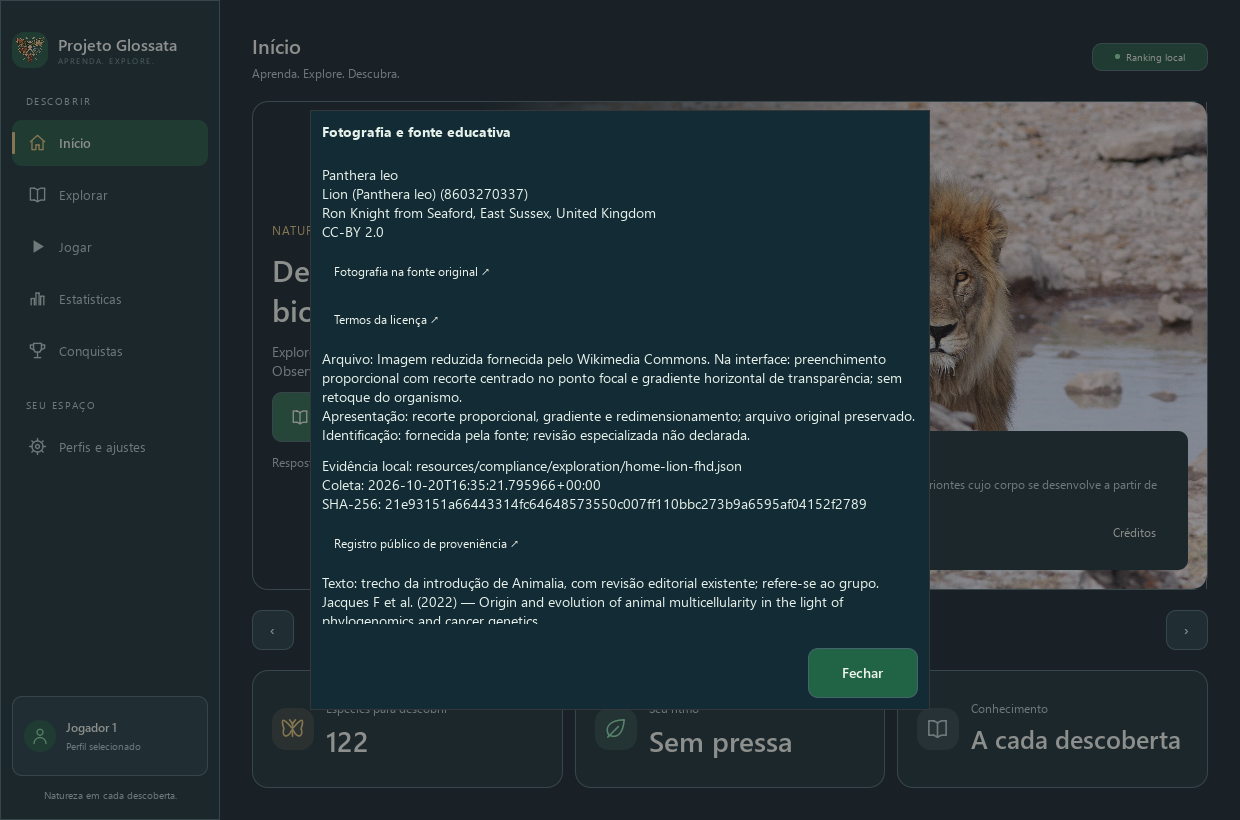
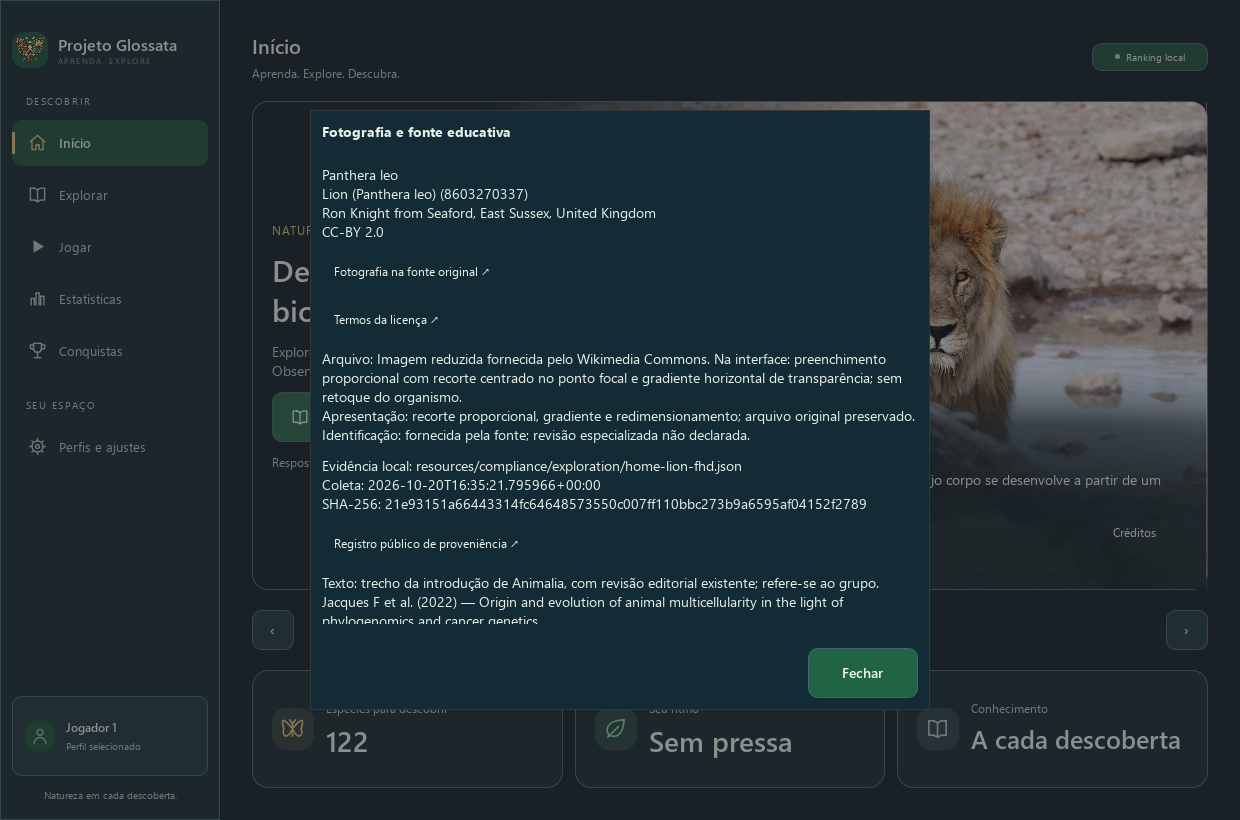
refactor(ui): integrate carousel captions over feathered photo gradient

Changed region(s): [[0.7355, 0.4573, 0.9806, 0.7317]]

diff --git a/resources/qml/views/HomeView.qml b/resources/qml/views/HomeView.qml
@@ -174,6 +174,46 @@ FocusScope {
                 }
             }
             Canvas {
+                objectName: "homeCaptionShade"
+                anchors.right: layerA.right
+                anchors.bottom: layerA.bottom
+                width: layerA.width
+                height: Math.min(layerA.height, caption.height + Style.Theme.spaceLg * 6)
+                onWidthChanged: requestPaint()
+                onHeightChanged: requestPaint()
+                // A static lower veil, feathered on both sides. Repaint only
+                // when its size changes; the photographs crossfade underneath.
+                onPaint: {
+                    const ctx = getContext("2d")
+                    ctx.reset()
+                    if (width <= 0 || height <= 0) return
+                    const ink = Style.Theme.canvas
+                    ctx.save()
+                    ctx.scale(width, height)
+                    const shade = ctx.createRadialGradient(0.72, 1.05, 0, 0.72, 1.05, 1.05)
+                    shade.addColorStop(0, Qt.rgba(ink.r, ink.g, ink.b, 0.96))
+                    shade.addColorStop(0.45, Qt.rgba(ink.r, ink.g, ink.b, 0.94))
+                    shade.addColorStop(0.72, Qt.rgba(ink.r, ink.g, ink.b, 0.70))
+                    shade.addColorStop(1, Qt.rgba(ink.r, ink.g, ink.b, 0))
+                    ctx.fillStyle = shade
+                    ctx.fillRect(0, 0, 1, 1)
+                    ctx.restore()
+                    ctx.globalCompositeOperation = "destination-in"
+                    const vertical = ctx.createLinearGradient(0, 0, 0, height)
+                    vertical.addColorStop(0, "transparent")
+                    vertical.addColorStop(0.28, "black")
+                    vertical.addColorStop(1, "black")
+                    ctx.fillStyle = vertical
+                    ctx.fillRect(0, 0, width, height)
+                    const horizontal = ctx.createLinearGradient(0, 0, width, 0)
+                    horizontal.addColorStop(0, "transparent")
+                    horizontal.addColorStop(0.20, "black")
+                    horizontal.addColorStop(1, "black")
+                    ctx.fillStyle = horizontal
+                    ctx.fillRect(0, 0, width, height)
+                }
+            }
+            Canvas {
                 anchors.fill: layerA
                 onWidthChanged: requestPaint()
                 onHeightChanged: requestPaint()
@@ -231,32 +271,41 @@ FocusScope {
                     wrapMode: Text.WordWrap
                 }
             }
-            Rectangle {
+            ColumnLayout {
+                id: caption
+                objectName: "homePhotoCaption"
                 anchors.right: parent.right
                 anchors.bottom: parent.bottom
-                anchors.margins: Style.Theme.spaceLg
-                width: parent.width * 0.46
-                height: caption.implicitHeight + Style.Theme.spaceLg * 2
-                radius: Style.Theme.controlRadius
-                color: Style.Theme.surface
-                ColumnLayout {
-                    id: caption
-                    objectName: "homePhotoCaption"
-                    anchors.fill: parent
-                    anchors.margins: Style.Theme.spaceLg
-                    spacing: Style.Theme.spaceXs
+                anchors.margins: Style.Theme.spaceLg * 2
+                width: parent.width * 0.44
+                spacing: Style.Theme.spaceXs
+                Label {
+                    objectName: "homeCaptionTitle"
+                    Layout.fillWidth: true
+                    text: view.slides.length ? view.slide.title : "Fotografias indisponíveis"
+                    color: Style.Theme.text
+                    font.family: Style.Theme.fontFamily
+                    font.pixelSize: Style.Theme.subtitleSize
+                    font.weight: Font.DemiBold
+                    wrapMode: Text.WordWrap
+                }
+                Label {
+                    objectName: "homeCaptionDescription"
+                    Layout.fillWidth: true
+                    text: view.slides.length ? view.slide.excerpt : "A exploração e os modos de jogo continuam disponíveis."
+                    color: Style.Theme.text
+                    font.pixelSize: Style.Theme.bodySize
+                    wrapMode: Text.WordWrap
+                }
+                RowLayout {
+                    Layout.fillWidth: true
+                    spacing: Style.Theme.spaceSm
                     Label {
+                        objectName: "homeCaptionScientificName"
                         Layout.fillWidth: true
-                        text: view.photo.subject || "Fotografias indisponíveis"
-                        color: Style.Theme.text
-                        font: Style.Theme.scientificFont
-                        wrapMode: Text.WordWrap
-                    }
-                    Label {
-                        Layout.fillWidth: true
-                        text: view.slides.length ? view.slide.title + " · " + view.slide.excerpt : "A exploração e os modos de jogo continuam disponíveis."
+                        text: view.photo.subject || ""
                         color: Style.Theme.textMuted
-                        font.pixelSize: Style.Theme.captionSize
+                        font: Style.Theme.scientificFont
                         wrapMode: Text.WordWrap
                     }
                     TextAction {
@@ -268,14 +317,14 @@ FocusScope {
                         Accessible.name: "Ver autor, licença, proveniência e fonte educativa de " + (view.photo.subject || "")
                         onClicked: credits.open()
                     }
-                    Label {
-                        Layout.fillWidth: true
-                        visible: view.slides.length > 0 && !view.photoReady
-                        text: "Fotografia ainda não disponível."
-                        color: Style.Theme.textMuted
-                        font.pixelSize: Style.Theme.captionSize
-                        wrapMode: Text.WordWrap
-                    }
+                }
+                Label {
+                    Layout.fillWidth: true
+                    visible: view.slides.length > 0 && !view.photoReady
+                    text: "Fotografia ainda não disponível."
+                    color: Style.Theme.textMuted
+                    font.pixelSize: Style.Theme.captionSize
+                    wrapMode: Text.WordWrap
                 }
             }
         }

diff --git a/tests/QmlInterfaceTests.cpp b/tests/QmlInterfaceTests.cpp
@@ -20,6 +20,15 @@
 
 namespace {
 QStringList interfaceWarnings;
+double colorContrast(QColor a, QColor b)
+{
+    const auto luminance = [](QColor c) {
+        const auto linear = [](double v) { return v <= 0.04045 ? v / 12.92 : std::pow((v + 0.055) / 1.055, 2.4); };
+        return 0.2126 * linear(c.redF()) + 0.7152 * linear(c.greenF()) + 0.0722 * linear(c.blueF());
+    };
+    const auto x = luminance(a), y = luminance(b);
+    return (qMax(x, y) + 0.05) / (qMin(x, y) + 0.05);
+}
 QString scientificGroup(const QString &name) {
     JsonSpeciesCatalog catalog;
     for(const auto &node : catalog.loadTaxons()) if(node.name==name)return node.id;
@@ -126,6 +135,58 @@ void QmlInterfaceTests::homeCarouselPhotographsAndNavigation()
             QVERIFY(qAbs(credit->width() - credit->implicitWidth()) < 1);
             QVERIFY(credit->width() < caption->width() / 2);
             QVERIFY(qAbs(credit->x() + credit->width() - caption->width()) < 1);
+            const auto title = item("homeCaptionTitle"), description = item("homeCaptionDescription");
+            const auto scientificName = item("homeCaptionScientificName");
+            QVERIFY(title && description && scientificName);
+            QCOMPARE(title->property("text").toString(), slides[i].toMap()["title"].toString());
+            QCOMPARE(description->property("text").toString(), slides[i].toMap()["excerpt"].toString());
+            QCOMPARE(scientificName->property("text").toString(), slides[i].toMap()["photo"].toMap()["subject"].toString());
+            QVERIFY(QQmlProperty(scientificName, "font.italic").read().toBool());
+            QVERIFY(QQmlProperty(title, "font.pixelSize").read().toInt() > QQmlProperty(description, "font.pixelSize").read().toInt());
+            QCOMPARE(QQmlProperty(title, "font.weight").read().toInt(), int(QFont::DemiBold));
+            const auto titleBounds = title->mapRectToScene(title->boundingRect());
+            const auto descriptionBounds = description->mapRectToScene(description->boundingRect());
+            const auto nameBounds = scientificName->mapRectToScene(scientificName->boundingRect());
+            QVERIFY(titleBounds.bottom() <= descriptionBounds.top());
+            QVERIFY(descriptionBounds.bottom() <= nameBounds.top());
+            for (auto text : {title, description, scientificName}) {
+                QVERIFY(!text->property("truncated").toBool());
+                QVERIFY(text->property("paintedHeight").toReal() <= text->height() + 1);
+                const auto bounds = text->mapRectToScene(text->boundingRect());
+                const auto heroBounds = item("homeHeroPhoto")->mapRectToScene(item("homeHeroPhoto")->boundingRect());
+                QVERIFY(heroBounds.contains(bounds));
+            }
+            if (i == 0) {
+                auto shade = item("homeCaptionShade");
+                QVERIFY(shade);
+                auto grab = shade->grabToImage();
+                QVERIFY(grab);
+                QTRY_VERIFY(!grab->image().isNull());
+                const auto veil = grab->image();
+                const int center = veil.width() / 2, bottom = veil.height() - 2;
+                QVERIFY(veil.pixelColor(center, 0).alpha() < 5);
+                QVERIFY(veil.pixelColor(center, bottom).alpha() > 220);
+                QVERIFY(veil.pixelColor(0, bottom).alpha() < 10);
+                QVERIFY(veil.pixelColor(veil.width() - 2, veil.height() / 4).alpha()
+                    < veil.pixelColor(center, bottom).alpha());
+                QVERIFY(veil.pixelColor(center, veil.height() / 3).alpha()
+                    < veil.pixelColor(center, veil.height() * 2 / 3).alpha());
+                // Contrast against a white photo pixel under the actual veil.
+                for (auto text : {title, description, scientificName, credit}) {
+                    const auto point = shade->mapFromItem(text, QPointF(2,
+                        qMin(text->height() / 2, QQmlProperty(text, "font.pixelSize").read().toReal() / 2)));
+                    const auto ink = veil.pixelColor(qBound(0, qRound(point.x() * veil.width() / shade->width()), veil.width() - 1),
+                        qBound(0, qRound(point.y() * veil.height() / shade->height()), veil.height() - 1));
+                    const auto alpha = ink.alphaF();
+                    const auto background = QColor::fromRgbF(ink.redF() * alpha + 1 - alpha,
+                        ink.greenF() * alpha + 1 - alpha, ink.blueF() * alpha + 1 - alpha);
+                    const auto foreground = text == credit
+                        ? credit->property("contentItem").value<QQuickItem *>()->property("color").value<QColor>()
+                        : text->property("color").value<QColor>();
+                    QVERIFY2(colorContrast(foreground, background) >= (text == title ? 3.0 : 4.5),
+                        qPrintable(text->objectName() + " must remain readable over bright photos"));
+                }
+            }
             const auto hero = item("homeHeroPhoto");
             const auto frame=window->grabWindow();
             const auto bounds=hero->mapRectToScene(hero->boundingRect());
@@ -509,11 +570,6 @@ void QmlInterfaceTests::designSystemStatesAndContrast()
     auto window = qobject_cast<QQuickWindow *>(object.data()); QVERIFY(window);
     auto button = findVisualItem(window->contentItem(), "themeButton"); QVERIFY(button);
     auto background = button->property("background").value<QQuickItem *>(); QVERIFY(background);
-    const auto luminance = [](QColor c) {
-        const auto linear = [](double v) { return v <= 0.04045 ? v/12.92 : std::pow((v+0.055)/1.055, 2.4); };
-        return 0.2126*linear(c.redF()) + 0.7152*linear(c.greenF()) + 0.0722*linear(c.blueF());
-    };
-    const auto contrast = [&](QColor a, QColor b) { const auto x=luminance(a), y=luminance(b); return (qMax(x,y)+0.05)/(qMin(x,y)+0.05); };
     window->setProperty("animations", false);
     QCOMPARE(window->property("animationDuration").toInt(), 0);
     QTest::qWait(180);
@@ -524,14 +580,14 @@ void QmlInterfaceTests::designSystemStatesAndContrast()
             QTest::mouseMove(window, state ? button->mapToScene(QPointF(20,20)).toPoint() : QPoint(510,420));
             button->setProperty("down", state == 2);
             QTest::qWait(1);
-            QVERIFY(contrast(text,background->property("color").value<QColor>()) >= 4.5);
+            QVERIFY(colorContrast(text,background->property("color").value<QColor>()) >= 4.5);
             button->setProperty("down", false);
         }
     }
     button->setProperty("secondary", false); button->setProperty("danger", false);
     button->forceActiveFocus(Qt::TabFocusReason);
     QCOMPARE(QQmlProperty(background, "border.width").read().toInt(), 2);
-    QVERIFY(contrast(window->property("focusColor").value<QColor>(), window->property("canvasColor").value<QColor>()) >= 3.0);
+    QVERIFY(colorContrast(window->property("focusColor").value<QColor>(), window->property("canvasColor").value<QColor>()) >= 3.0);
     QTest::keyClick(window, Qt::Key_Space); QCOMPARE(window->property("activations").toInt(), 1);
     QTest::keyClick(window, Qt::Key_Tab);
     QVERIFY(findVisualItem(window->contentItem(), "themeNav")->hasActiveFocus());

diff --git a/docs/interface/VERSOES/2.2.1-A/README.md b/docs/interface/VERSOES/2.2.1-A/README.md
@@ -4,7 +4,7 @@ Subetapa da [Issue #22](https://github.com/kaduolliver/Projeto-Glossata/issues/2
 
 ## Implementação
 
-O Início apresenta quatro fotografias locais, selecionadas das associações explícitas já verificadas pelo catálogo de mídia. O recorte proporcional respeita o ponto focal existente, com gradiente horizontal e legenda sobre superfície opaca. Setas e pequenos pontos selecionam as fotos; não há faixa de miniaturas. O avanço automático ocorre a cada oito segundos, com crossfade de 600 ms e retorno ao primeiro slide. A navegação manual reinicia o intervalo. Hover, foco de teclado no carrossel, créditos abertos, janela inativa/oculta/minimizada e Home invisível suspendem o avanço; ao retomar começa um intervalo completo. Tab/Espaço, setas e Home/End permitem operar por teclado; foco visível e retorno do diálogo de créditos são preservados. A preferência de redução de movimento zera a duração das transições e desativa o avanço automático. `Theme.homeSlideInterval` e `Theme.homeCrossfadeDuration` centralizam os tempos.
+O Início apresenta quatro fotografias locais, selecionadas das associações explícitas já verificadas pelo catálogo de mídia. O recorte proporcional respeita o ponto focal existente, com gradiente horizontal e legenda diretamente sobre um degradê inferior suave. Setas e pequenos pontos selecionam as fotos; não há faixa de miniaturas. O avanço automático ocorre a cada oito segundos, com crossfade de 600 ms e retorno ao primeiro slide. A navegação manual reinicia o intervalo. Hover, foco de teclado no carrossel, créditos abertos, janela inativa/oculta/minimizada e Home invisível suspendem o avanço; ao retomar começa um intervalo completo. Tab/Espaço, setas e Home/End permitem operar por teclado; foco visível e retorno do diálogo de créditos são preservados. A preferência de redução de movimento zera a duração das transições e desativa o avanço automático. `Theme.homeSlideInterval` e `Theme.homeCrossfadeDuration` centralizam os tempos.
 
 Explorar abre a navegação científica; Jogar chama o fluxo existente de início/retomada, inclusive feedback e resultados pendentes. O carrossel não grava estado de sessão. Os três indicadores anteriores permanecem; não há Descoberta do Dia, novo indicador, nova espécie ou reformulação de outras telas.
 
@@ -115,3 +115,13 @@ As verificações de destaque visual nos três botões compartilhados e nos pont
 Regressões verificam clique e funcionamento dos botões, ausência da borda pelo mouse e retorno da borda por Tab/Shift+Tab. [Mouse](capturas/mouse-focus-1240x820.png) e [teclado](capturas/keyboard-focus-1240x820.png) têm capturas reais adicionais. A imagem oficial registra a interação com Créditos no mesmo `Main.qml`/controlador, executado pelo QtTest com SQLite temporário; o manifesto identifica esse binário e a fonte do quadro. A captura inicial pelo executável de produção também foi refeita com `scripts/capture_home.py`: o estado em repouso conserva a mesma aparência.
 
 Release recompilada; domínio/aplicação aprovado com 53 casos e suíte Qt/QML final aprovada com dez casos (77,51 s), sem avisos. Verificados estados de foco dos quatro controles, ações, navegação, carrossel e sessões. Qmllint, auditoria estrita do catálogo, escopo Apache, manifestos e histórico preservados. O gate de distribuição continua bloqueado por pendências existentes, com zero erros técnicos. Nenhum catálogo, fotografia, regra ou registro de decisão foi alterado.
+
+## Legenda integrada à fotografia
+
+A superfície retangular foi removida. No canto inferior direito, o nome do grupo existente passa a ser o título educativo, em seminegrito de 20 px; a descrição mantém exatamente o trecho científico aprovado, em 14 px. Nome científico em itálico e Créditos compartilham a linha inferior. O diálogo de autoria, licenciamento e fontes permanece intacto.
+
+Uma camada Canvas independente desenha o degradê inferior difuso, com queda vertical e lateral, sem modificar fotografias ou os buffers do crossfade. A pintura ocorre em alterações de tamanho, inclusive reflow da legenda; não há animação ou processamento das fotos nessa camada. Os recortes dos cantos permanecem preservados. A largura proporcional e as margens mantêm a legenda separada dos botões Explorar/Jogar.
+
+Os testes exercitam os quatro slides nas três resoluções, conferindo ordem dos textos, itálico, seminegrito, ausência de cortes e sobreposições, transparência do degradê e contraste sobre um pixel fotográfico branco. Esta verificação de contraste usa o degradê realmente renderizado: pelo menos 3:1 para o título e 4,5:1 para descrição, nome e Créditos. As capturas reais atualizadas incluem os estados de mouse e teclado. A captura oficial desta revisão volta ao estado inicial do executável de produção, por `scripts/capture_home.py`; o manifesto identifica separadamente as capturas produzidas pelo QtTest. Não houve alterações de catálogo, fotografias, licenças ou funcionalidades externas à legenda.
+
+Validação final: compilação Release concluída; dez casos Qt/QML aprovados (78,09 s), sem avisos, incluindo carrossel, créditos, teclado e regressões de navegação/sessões. Qmllint de todos os QML, auditoria estrita do catálogo, escopo Apache, integridade dos manifestos/capturas e preservação dos 1.053 eventos de governança aprovados. As 15 capturas e a imagem oficial foram regeneradas e inspecionadas nas três resoluções. O gate de distribuição permanece bloqueado pelas pendências existentes, com zero erros técnicos. Outras GPUs, escalas e leitores de tela não foram ensaiados nesta intervenção.

diff --git a/docs/interface/ARQUITETURA_UI.md b/docs/interface/ARQUITETURA_UI.md
@@ -4,7 +4,7 @@
 
 `HomeView.qml` mantém o estado transitório do carrossel, sem persistir preferências ou alterar partidas. `GameController.homeSlides` expõe quatro representantes explícitos de `TaxonomyIndex`: Animalia, Arthropoda, Plantae e Fungi, selecionados pelos identificadores estáveis para evitar homônimos históricos preservados no SQLite. A mesma porta `ExplorationMediaCatalog` valida fotos, licenças e evidências já utilizadas na exploração. Introduções passam por `EducationalContent`; só a primeira frase completa do texto utilizável é exibida, com referência preservada. Não há novas afirmações científicas ou aprovação automática.
 
-Fotografias indisponíveis ou introduções sem revisão utilizável não geram slides; a Home continua oferecendo Explorar e Jogar mesmo com zero slides. A Home usa dois buffers nativos `Image`, com recorte proporcional e gradiente independente; Canvas pinta apenas os cantos. O componente `FeatheredPhoto` dos cartões permanece intacto. Um Timer de oito segundos avança somente com a Home visível e a janela ativa, sem interação ou créditos; redução de movimento o desativa. Não há download em execução normal ou nova dependência. Créditos usam um diálogo rolável com dados locais; links externos só abrem por ação do usuário. [Revisão e limites](VERSOES/2.2.1-A/README.md).
+Fotografias indisponíveis ou introduções sem revisão utilizável não geram slides; a Home continua oferecendo Explorar e Jogar mesmo com zero slides. A Home usa dois buffers nativos `Image`, com recorte proporcional e gradiente independente; Canvas pinta o degradê inferior da legenda e os recortes dos cantos, sem repintar as fotografias. O componente `FeatheredPhoto` dos cartões permanece intacto. Um Timer de oito segundos avança somente com a Home visível e a janela ativa, sem interação ou créditos; redução de movimento o desativa. Não há download em execução normal ou nova dependência. Créditos usam um diálogo rolável com dados locais; links externos só abrem por ação do usuário. [Revisão e limites](VERSOES/2.2.1-A/README.md).
 
 ## Navegação atual — Subetapa 2.1.3
 

diff --git a/docs/interface/DESIGN_SYSTEM.md b/docs/interface/DESIGN_SYSTEM.md
@@ -2,7 +2,7 @@
 
 Os tokens ficam em `resources/qml/style/Theme.qml`, singleton QML local registrado por `qmldir` e embarcado no QRC. `UiButton`, `NavItem`, `StatCard` e `TextAction` usam os tokens; as demais views conservam seus estilos. Não há dependência nova ou mudança na organização das telas.
 
-Na Subetapa 2.2.1-A, `HomeView` também utiliza esses tokens. A fotografia ocupa a região principal à direita com gradiente; a legenda usa superfície opaca para manter contraste independentemente da imagem. Miniaturas distinguem seleção (verde) e foco (dourado). O crossfade de 600 ms e o avanço automático de oito segundos usam `homeCrossfadeDuration` e `homeSlideInterval`, com pausa por interação/visibilidade e desativação pela redução de movimento. Os tokens e contratos compartilhados não foram alterados.
+Na Subetapa 2.2.1-A, `HomeView` também utiliza esses tokens. A fotografia ocupa a região principal à direita com gradiente; a legenda aparece diretamente sobre um degradê inferior escuro, transparente acima e nas laterais. O título do grupo usa `subtitleSize` e seminegrito; a descrição usa `bodySize`, seguida do nome científico em itálico e de Créditos. Pontos distinguem seleção (verde) e foco por teclado (dourado). O crossfade de 600 ms e o avanço automático de oito segundos usam `homeCrossfadeDuration` e `homeSlideInterval`, com pausa por interação/visibilidade e desativação pela redução de movimento. Os tokens e contratos compartilhados não foram alterados.
 
 | Papel | Tokens/valores |
 | --- | --- |

diff --git a/docs/interface/COMPONENTES.md b/docs/interface/COMPONENTES.md
@@ -8,6 +8,8 @@ Os metadados de mídia expostos incluem título, autor, licença, URL, coleta, c
 
 Os indicadores visuais usam somente pontos; a posição e o total permanecem no nome acessível de cada ponto. `homeCreditsButton` conserva a largura implícita de `TextAction`, alinhada à direita da legenda; hover e foco não se estendem ao restante do cartão.
 
+`homePhotoCaption` é um layout transparente: título do grupo, descrição existente e linha de nome científico/Créditos. `homeCaptionShade` desenha somente o degradê inferior com transparência vertical e lateral, repintado em redimensionamentos e mudanças de altura da legenda. A camada permanece independente das imagens e do crossfade; os recortes dos cantos continuam sendo aplicados por cima.
+
 ## Integração de navegação — 2.1.3
 
 - `Main.qml`: shell central com seis destinos, cabeçalho por seção e contexto, larguras/margens responsivas de `Theme.qml`. Os `NavItem` existentes recebem identificadores estáveis `navHome`, `navExplore`, `navPlay`, `navStatistics`, `navAchievements` e `navSettings`.

diff --git a/docs/interface/CHANGELOG_UI.md b/docs/interface/CHANGELOG_UI.md
@@ -2,6 +2,8 @@
 
 ## 2.2.1-A — Início fotográfico — 2026-10-20
 
+- PR #30: removida a superfície sólida da legenda. Título do grupo seminegrito e descrição aparecem sobre a fotografia; nome científico em itálico e Créditos compartilham a linha inferior. Degradê estático desaparece acima e nas laterais, preservando imagens, transições e cantos. Capturas nas três resoluções atualizadas.
+
 - PR #30: foco visual em `UiButton`, `TextAction`, `NavItem` e pontos do carrossel passa a usar `visualFocus`. Destaque dourado preservado por teclado, sem aparecer apenas pelo clique; seleção, hover, cores e navegação inalterados. Capturas reais de mouse e teclado registradas.
 
 - Correção no PR #30: quatro slides selecionados pelos identificadores estáveis, inclusive em catálogos locais com grupos históricos homônimos; removida a contagem numérica e alinhado Créditos à direita, com área de foco limitada à largura do botão. Capturas reais atualizadas.

diff --git a/CHANGELOG.md b/CHANGELOG.md
@@ -4,6 +4,8 @@ Este arquivo registra mudanças do aplicativo com versionamento semântico. A ve
 
 ## [1.7.0] — Não lançado; curadoria e integridade do projeto
 
+- PR #30: legenda científica do carrossel diretamente sobre a fotografia, com degradê inferior suave, título do grupo em destaque, descrição e linha discreta de nome científico/Créditos; capturas reais e testes de contraste/layout atualizados.
+
 - PR #30: destaque de foco dos botões compartilhados e pontos do carrossel usa `visualFocus`; cliques mantêm o funcionamento sem borda amarela, preservada em Tab/Shift+Tab.
 
 - PR #30: corrigida a seleção dos quatro slides em catálogos SQLite com grupos históricos homônimos; indicadores apenas por pontos e botão Créditos compacto à direita, com novas capturas reais.
